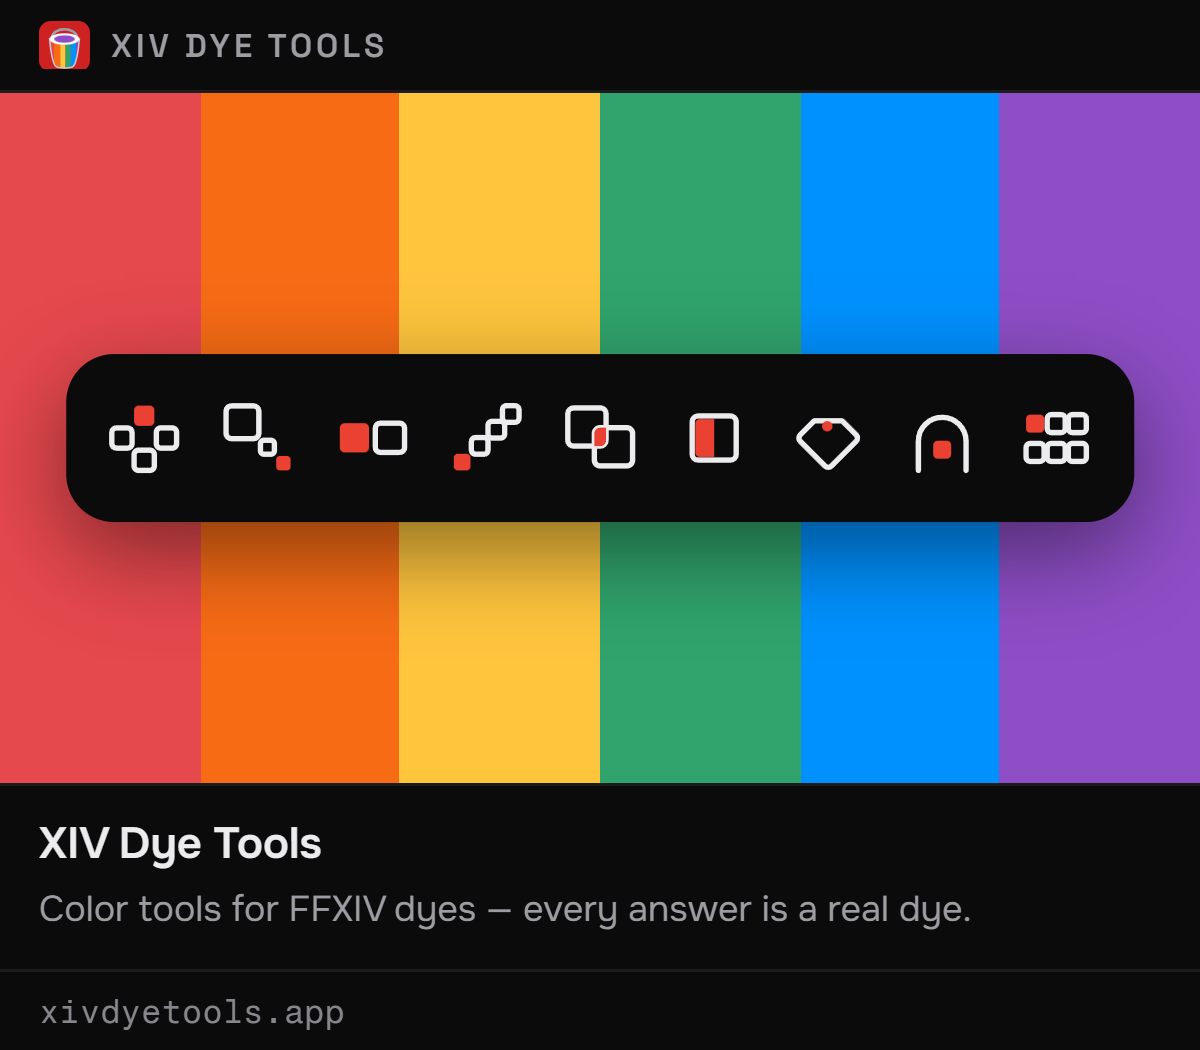
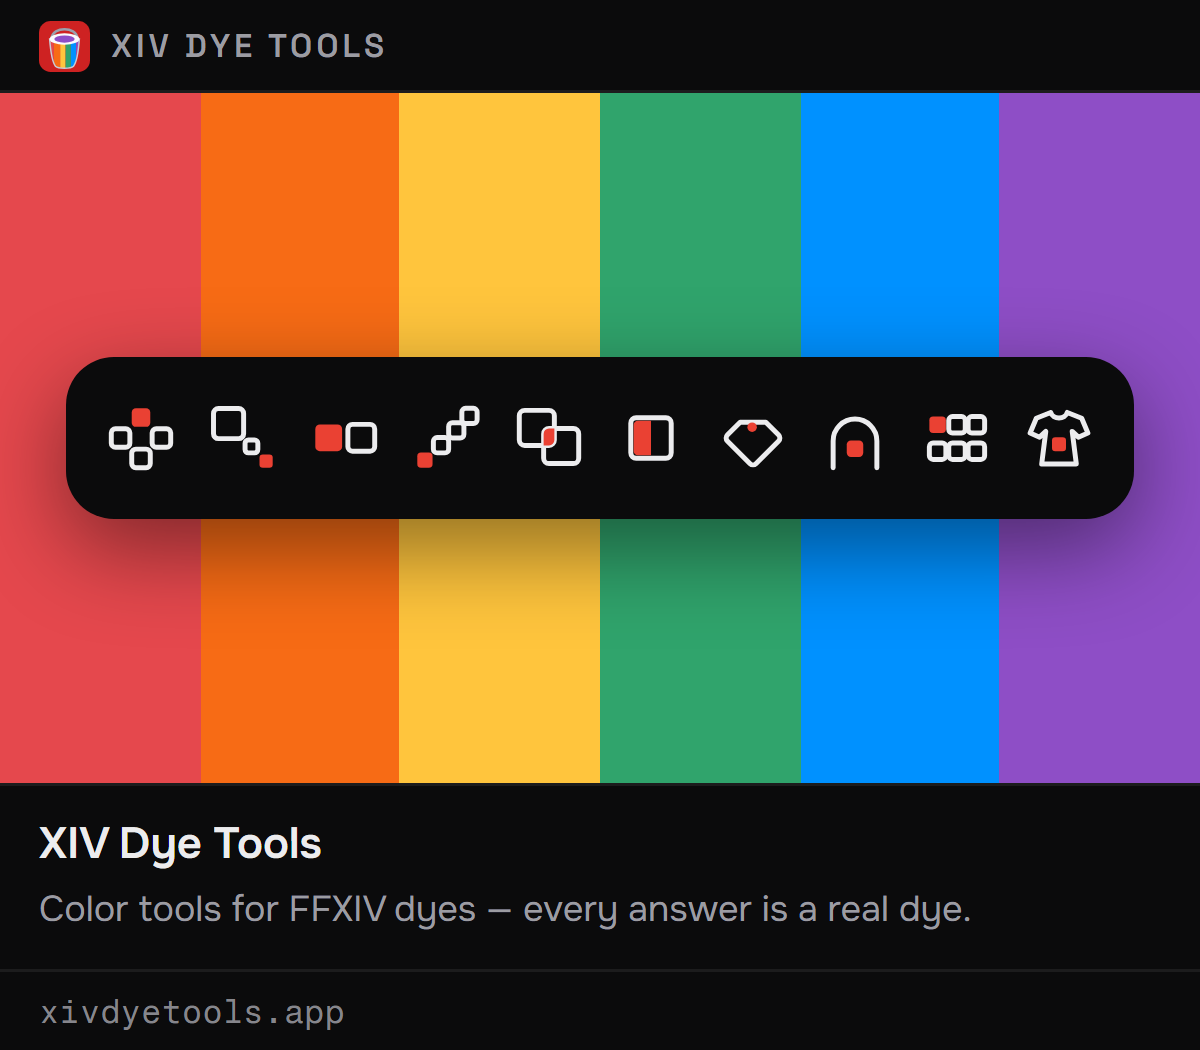
feat(web-app): the site's share card shows ten tools
Re-exported public/og/default.png (1200x1050) and default-x.png
(1200x630) from the design's OG Default Cards - Export page (turn 4) at
x3 in Chromium, with the Glamour Reader's glyph as the tenth. The rail
re-cuts to 22 px cells / 12 px gaps, so it stays 356 px wide and
unscaled in both frames. The design's own assets/og still held the
nine-glyph pair, so this is a fresh browser raster; an unchanged tool
card rendered the same way differs from the designer's export only in
text antialiasing (0.7% of pixels). Alt text: nine -> ten.

diff --git a/apps/web-app/src/index.html b/apps/web-app/src/index.html
@@ -31,7 +31,7 @@
     <meta property="og:image" content="https://xivdyetools.app/og/default.png" />
     <meta property="og:image:width" content="1200" />
     <meta property="og:image:height" content="1050" />
-    <meta property="og:image:alt" content="XIV Dye Tools - icons for the nine FFXIV dye tools on a dark panel, over a six-color spectrum" />
+    <meta property="og:image:alt" content="XIV Dye Tools - icons for the ten FFXIV dye tools on a dark panel, over a six-color spectrum" />
     <meta property="og:site_name" content="XIV Dye Tools" />
     <meta property="og:locale" content="en_US" />
     
@@ -44,7 +44,7 @@
     <meta name="twitter:description" content="Free FFXIV dye color tools: matching, harmony, accessibility, comparison, and mixing utilities for glamour design." />
     <!-- X gets the 1200×630 frame, matching og-worker's ?frame=x variant. -->
     <meta name="twitter:image" content="https://xivdyetools.app/og/default-x.png" />
-    <meta name="twitter:image:alt" content="XIV Dye Tools - icons for the nine FFXIV dye tools over a six-color spectrum" />
+    <meta name="twitter:image:alt" content="XIV Dye Tools - icons for the ten FFXIV dye tools over a six-color spectrum" />
     
     <!-- Favicon -->
     <link rel="icon" type="image/x-icon" href="/assets/icons/favicon.ico" />

diff --git a/apps/web-app/CHANGELOG.md b/apps/web-app/CHANGELOG.md
@@ -36,6 +36,9 @@ Directions*, turns 1–2; spec `docs/superpowers/specs/2026-09-27-glamour-reader
   once as `Rings:` (GPOSERS reminders, March 2026).
 - Narrow desktop (769–919 px) drops the language button's globe so ten rail chips and a hovered
   label fit. The shortcuts panel says `0-9`.
+- **The site's share card shows ten tools.** `public/og/default.png` and `default-x.png` are
+  re-exported from the design's export sheet (turn 4) with the tenth glyph. The rail re-cuts to
+  22 px cells and 12 px gaps, so it stays 356 px wide in both frames. The alt text says ten.
 
 ### Changed
 
